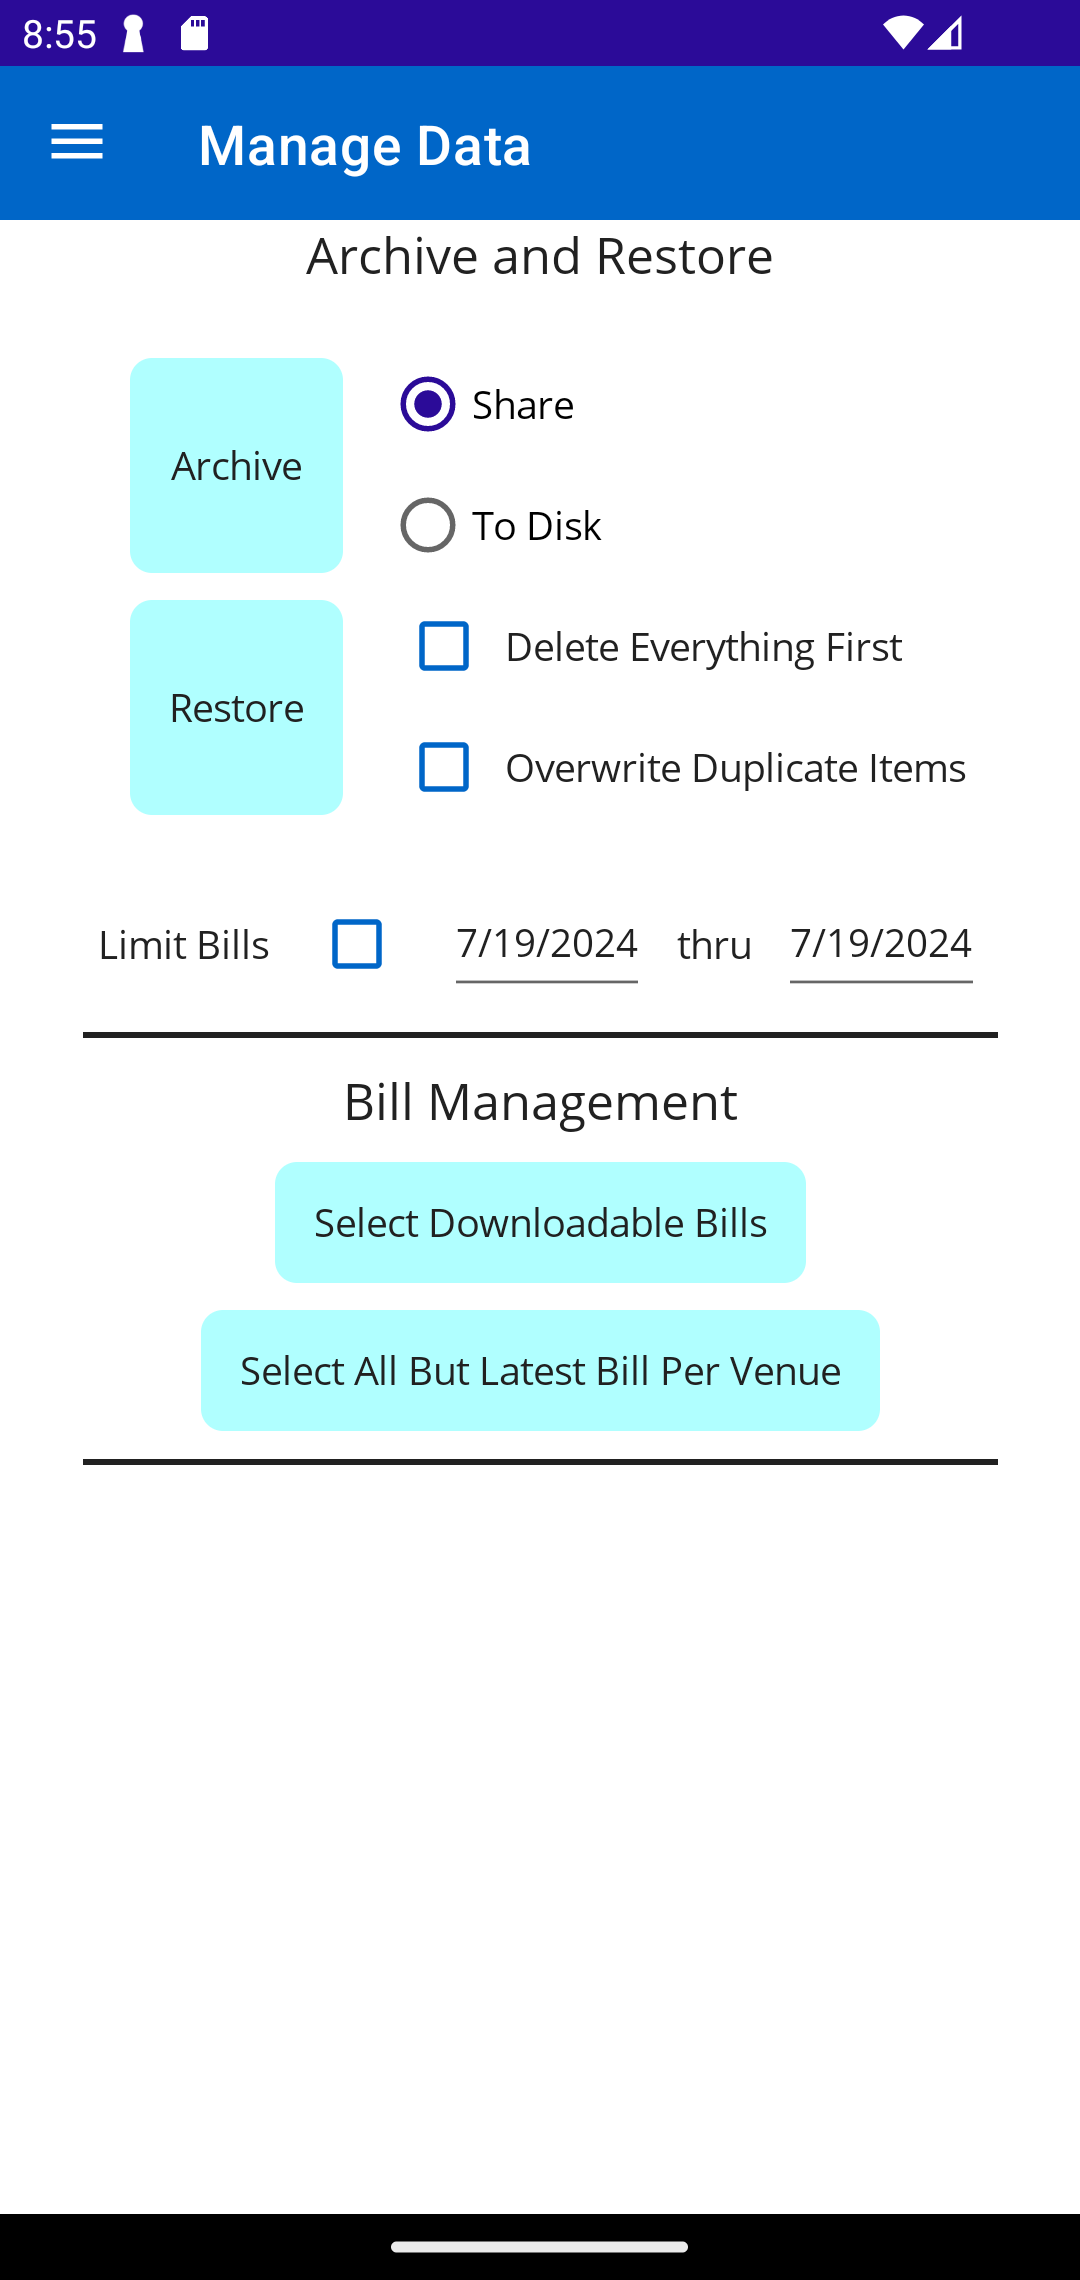
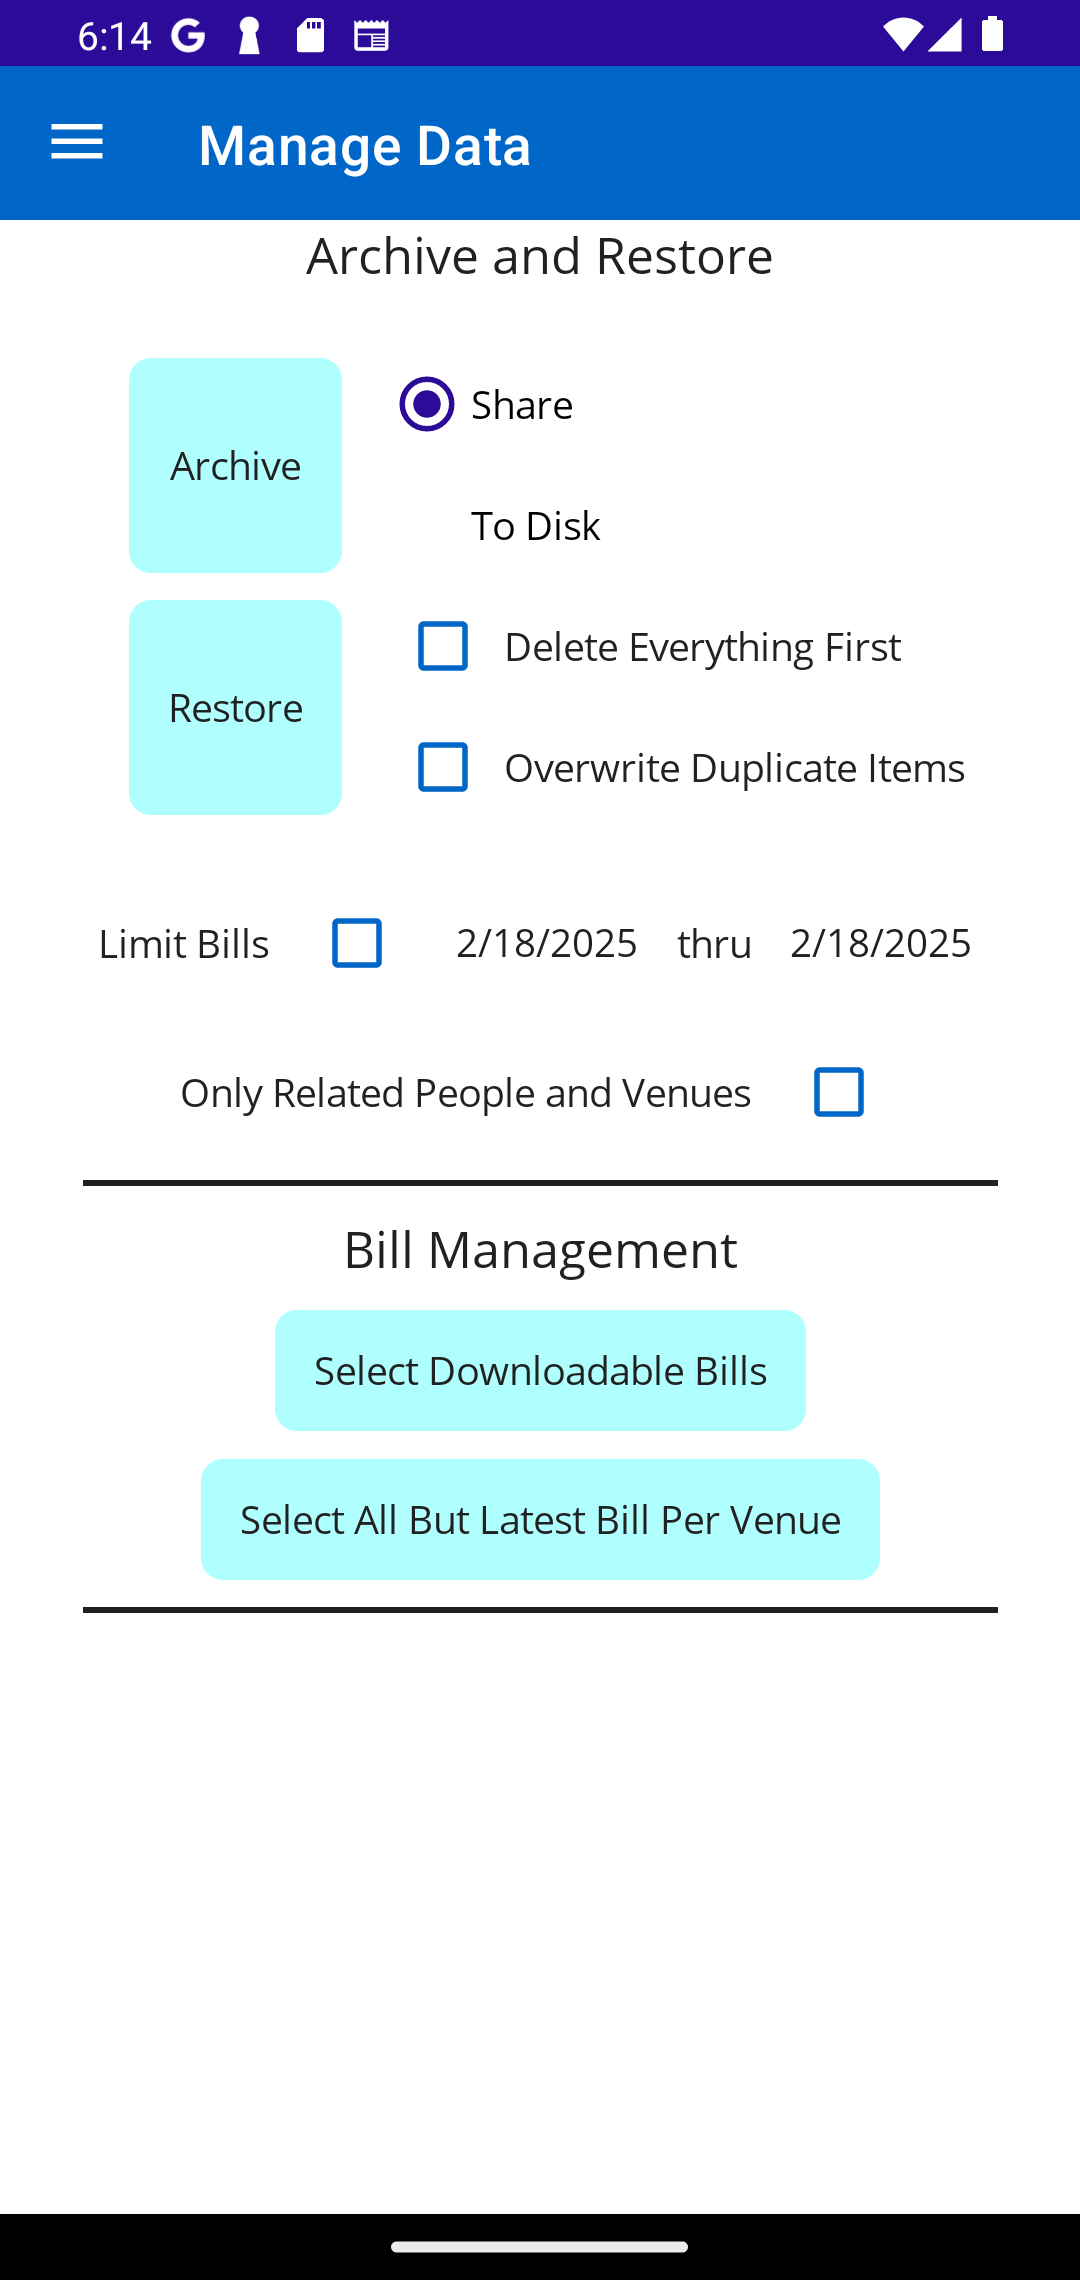
Update to 6.2.17

diff --git a/site/divisibill/index.html b/site/divisibill/index.html
@@ -48,7 +48,7 @@ page. The main pages are:</p>
 <p>Otherwise it connects only when you specifically request it to (for example, in order to back up and recover files or send mail). If a crash should occur, the next run of DivisiBill will ask you if you wish to report it. All these activities are anonymous, though lists of people and venue names could give away information about you.</p>
 <h2 id="data-deletion-policy">Data Deletion Policy</h2>
 <p>Professional Edition Subscribers may delete their cloud based data (bills and/or lists of people or venues) at any time through DivisiBill, by canceling their subscription, or by sending an email request to <a href="mailto:support@autopl.us">DivisiBill Support</a> along with their Professional Subscription order number (DivisiBill will add this to the mail automatically, just don't delete it). Once a Professional Subscription ends (either by being canceled or not being renewed) the corresponding cloud based data will be removed. The source of this data is anonymous though the data itself may give some clues, especially to the users location.</p>
-<p style="Text-align:center; font-size: 0.8em">Last updated January 2025 for version 6.2.15</p>
+<p style="Text-align:center; font-size: 0.8em">Last updated February 2025 for version 6.2.17</p>
 
 <script src="script.js"></script>
 </body>

diff --git a/site/policy.html b/site/policy.html
@@ -1,0 +1,30 @@
+<!DOCTYPE html>
+<meta name="viewport" content="width=device-width, initial-scale=1.0">
+<html>
+<head>
+    <title>Policy</title>
+    <link rel="stylesheet" href="divisibill/styles.css">
+</head>
+<body>
+    <h1 id="policy">Policy</h1>
+<p>These general policy statements cover all AutoPlus applications except where specific policies are identified.</p>
+<h2 id="privacy-policy">Privacy Policy</h2>
+<p>The application does not collect or share your personal information.</p>
+
+    <script>
+        let li = window.location.href.lastIndexOf("#");
+        var s;
+        if (li >= 0) {
+            s = window.location.href.substring(li + 1);
+        }
+
+        if (s != null && s.length > 0) {
+            let e = document.getElementById(s);
+            if (e != null) {
+                let h = e.innerHTML;
+                e.innerHTML = "<mark>" + h + "</mark>";
+            }
+        }
+    </script>
+</body>
+</html>

diff --git a/site/divisibill/datamanagementglossary.html b/site/divisibill/datamanagementglossary.html
@@ -22,6 +22,8 @@
 <p>Select this option to overwrite items of the same name that already exist when the restore is performed.</p>
 <h2 id="limit-bills-switch">Limit Bills Switch</h2>
 <p>Changes the behavior of the Archive and Restore buttons so they only operate on a limited range of bills.</p>
+<h2 id="only-related">Only Related</h2>
+<p>Changes the behavior of the Archive and Restore buttons so they only operate on those People and Venues that are used on a selected bill.</p>
 <h2 id="download-bills-button">Download Bills Button</h2>
 <p>Tap this button to select any bills stored to the cloud which are not stored locally and switch to the <a href="meallistpage.html">bill list</a> page.</p>
 <h2 id="select-bills-button">Select Bills Button</h2>
